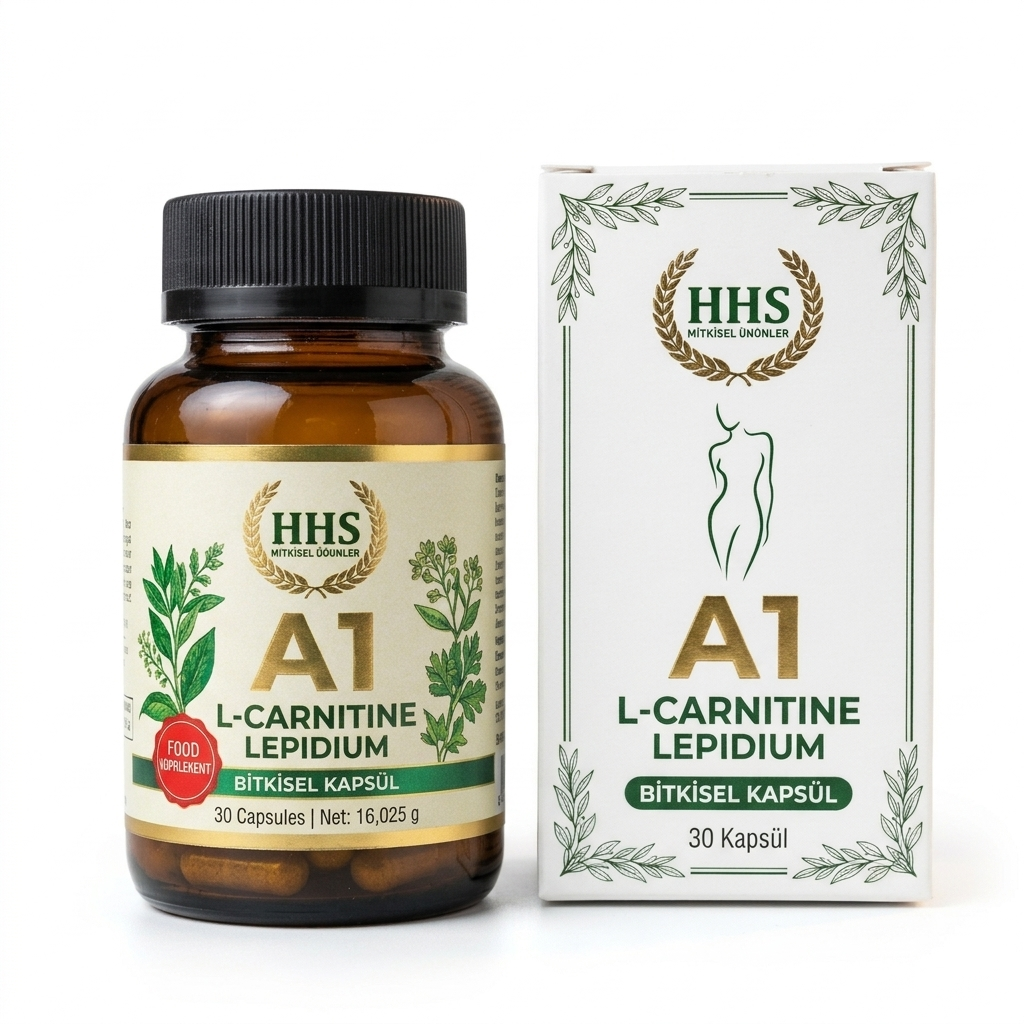
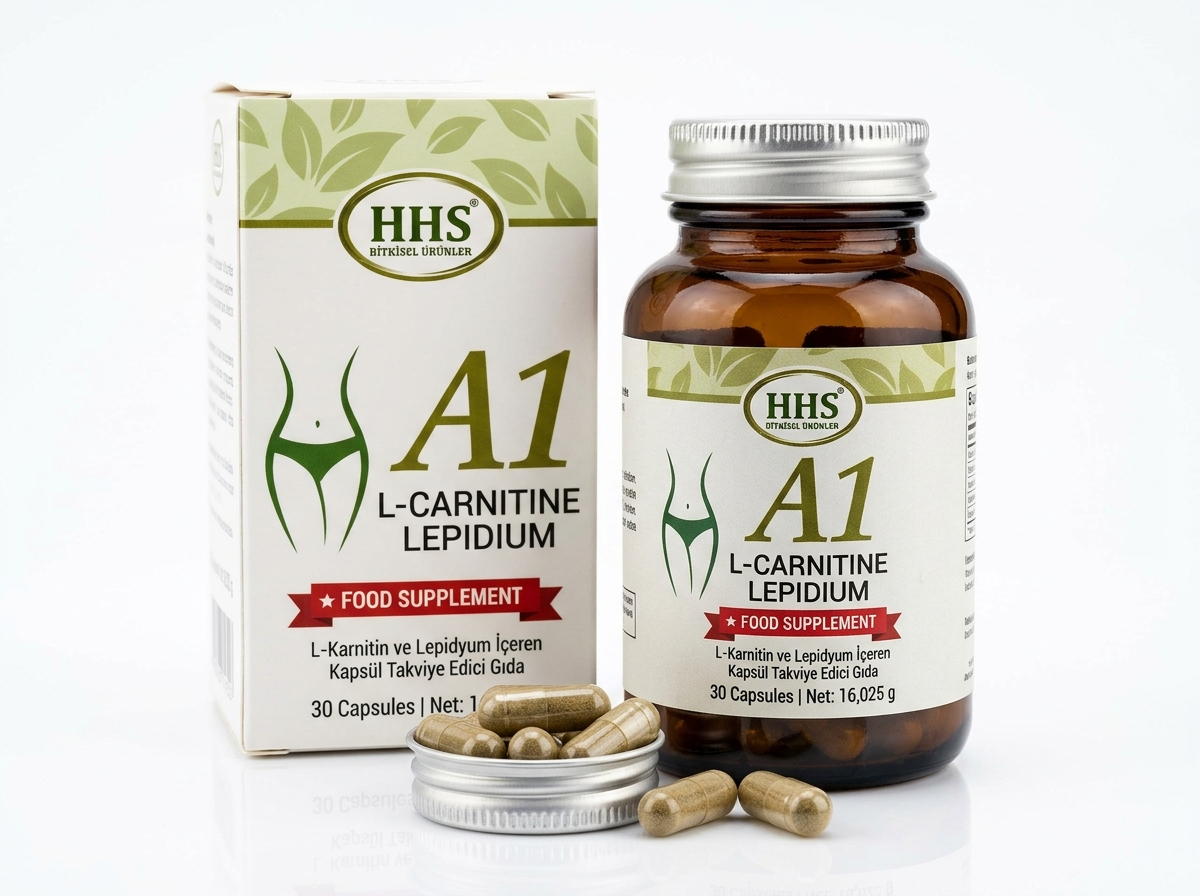
Update authentic product visuals: silver cap, authentic box branding, and real herbal transparent capsules

diff --git a/index.html b/index.html
@@ -138,10 +138,10 @@
             </div>
           </div>
 
-          <!-- Right Column: Cinematic Product & Spilled Capsules Hero Visual -->
+          <!-- Right Column: Cinematic Product & Real Capsules Hero Visual -->
           <div class="hero-visual">
             <div class="hero-image-frame">
-              <img src="assets/images/hero_seed.jpg?v=4" alt="HHS A1 Original Bottle 30 Capsules, Box and Spilled Green Herbal Capsules Cinematic Shot" loading="eager">
+              <img src="assets/images/hero_seed.jpg?v=5" alt="HHS A1 Original Bottle with Silver Cap, Box and Real Herbal Capsules" loading="eager">
               
               <!-- Floating Glassmorphism Pill -->
               <div class="hero-floating-pill">
@@ -184,7 +184,7 @@
           <div class="product-card">
             <span class="card-badge" data-i18n="card1_badge">للتجربة والبداية</span>
             <div class="product-card-visual">
-              <img src="assets/images/package_single.jpg?v=4" alt="HHS A1 Single Bottle and Box Pack 30 Capsules on White Background" loading="lazy">
+              <img src="assets/images/package_single.jpg?v=5" alt="HHS A1 Single Bottle and Box Pack 30 Capsules on White Background" loading="lazy">
             </div>
             <div class="product-card-body">
               <span class="product-code" data-i18n="card1_code">A1-SINGLE • كورس شهر واحد</span>
@@ -230,7 +230,7 @@
           <div class="product-card featured">
             <span class="card-badge" data-i18n="card2_badge">الأكثر مبيعاً 🔥</span>
             <div class="product-card-visual">
-              <img src="assets/images/package_duo.jpg" alt="HHS A1 Duo Pack 2 Bottles and 2 Boxes on White Background" loading="lazy">
+              <img src="assets/images/package_duo.jpg?v=5" alt="HHS A1 Duo Pack 2 Bottles and 2 Boxes on White Background" loading="lazy">
             </div>
             <div class="product-card-body">
               <span class="product-code" data-i18n="card2_code">A1-DUO • كورس شهرين مكثف</span>
@@ -276,7 +276,7 @@
           <div class="product-card">
             <span class="card-badge" data-i18n="card3_badge">أفضل قيمة وتوفير 🏆</span>
             <div class="product-card-visual">
-              <img src="assets/images/package_trio.jpg" alt="HHS A1 Trio Pack 3 Bottles and 3 Boxes on White Background" loading="lazy">
+              <img src="assets/images/package_trio.jpg?v=5" alt="HHS A1 Trio Pack 3 Bottles and 3 Boxes on White Background" loading="lazy">
             </div>
             <div class="product-card-body">
               <span class="product-code" data-i18n="card3_code">A1-TRIO • كورس النحت الكامل</span>
